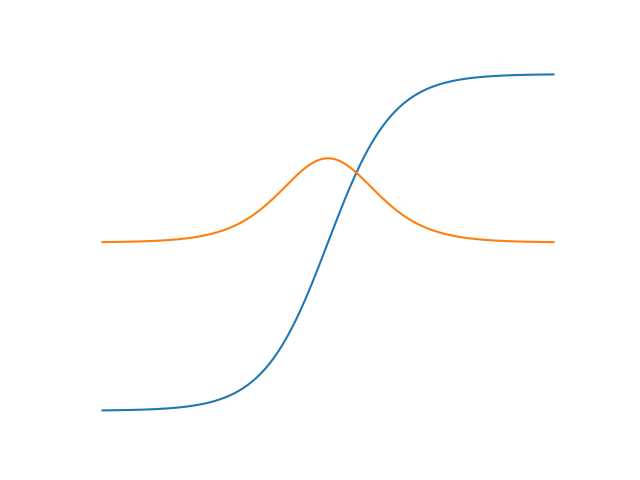
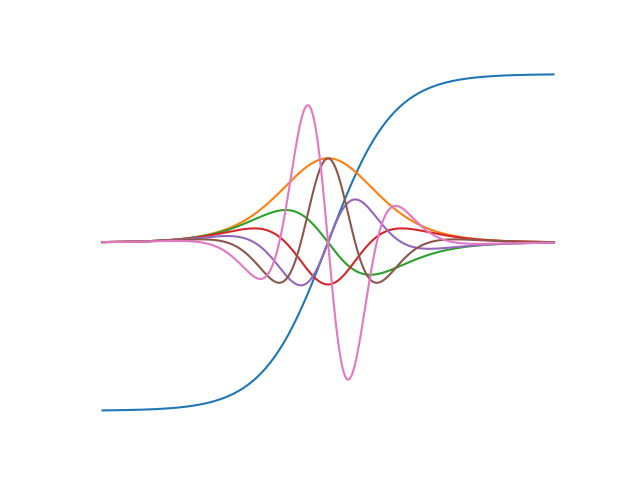
support high order derivative

Changed region(s): [[0.1562, 0.2188, 0.875, 0.7188], [0.5312, 0.7188, 0.5625, 0.8125]]

diff --git a/examples/tanh.py b/examples/tanh.py
@@ -8,15 +8,23 @@ def tanh(x):
     return (1.0 - y) / (1.0 + y)
 
 
-x = tf.Tensor(tf.linspace(-7, 7, 200))
+x = tf.linspace(-7, 7, 200)
 with tf.GradientTape() as tp:
     tanh_val = tanh(x)
     grad_tanh = tp.gradient(tanh_val, x)
-
-# TODO: support high order derivative
+    grad2_tanh = tp.gradient(grad_tanh, x)
+    grad3_tanh = tp.gradient(grad2_tanh, x)
+    grad4_tanh = tp.gradient(grad3_tanh, x)
+    grad5_tanh = tp.gradient(grad4_tanh, x)
+    grad6_tanh = tp.gradient(grad5_tanh, x)
 
 plt.plot(x.numpy(), tanh_val.numpy(),
-         x.numpy(), grad_tanh.numpy(),  # first derivative
+         x.numpy(), grad_tanh.numpy(),      # first derivative
+         x.numpy(), grad2_tanh.numpy(),     # second derivative
+         x.numpy(), grad3_tanh.numpy(),     # third derivative
+         x.numpy(), grad4_tanh.numpy(),     # fourth derivative
+         x.numpy(), grad5_tanh.numpy(),     # fifth derivative
+         x.numpy(), grad6_tanh.numpy(),     # sixth derivative
          )
 
 plt.axis('off')

diff --git a/minitf/autodiff/core.py b/minitf/autodiff/core.py
@@ -21,13 +21,15 @@ def primitive(f_raw):
         arg_vals = tuple(map(get_val, args))
         ans = Tensor(f_raw(*arg_vals, **kwargs))
 
+        # TODO: wrape value as tensor here.
+
         current_graph = get_current_graph()
         if current_graph:
             # make jvp functions
             jvp_maker = get_jvp_maker(f_wrapped)
             if jvp_maker is None:
                 raise Exception("Need to define jvp for the primitive")
-            all_jvps = jvp_maker(ans, *arg_vals, **kwargs)
+            all_jvps = jvp_maker(ans, *args, **kwargs)
 
             tensors = []
             jvps = []

diff --git a/minitf/autodiff/tensor.py b/minitf/autodiff/tensor.py
@@ -3,9 +3,7 @@ from .. import kernel as K
 
 class Tensor(object):
     def __init__(self, value):
-        self._value = value
-
-    data = property(lambda self: self._value)
+        self._value = get_val(value)
 
     def __neg__(self): return K.negative(self)
 
@@ -25,8 +23,10 @@ class Tensor(object):
 
     def __rtruediv__(self, other): return K.divide(other, self)
 
-    def numpy(self):
-        return K.asnumpy(self._value)
+    def numpy(self): return K.asnumpy(self._value)
+
+    @property
+    def data(self): return self._value
 
 
 def is_tensor(x):

diff --git a/minitf/autodiff/gradient_tape.py b/minitf/autodiff/gradient_tape.py
@@ -20,7 +20,7 @@ class GradientTape(object):
         return prev_g + curr_g
 
     def gradient(self, target, sources):
-        outgrads = {target: K.ones_like(target.data)}
+        outgrads = {target: K.ones_like(target)}
 
         for node, neighbors, jvps in toposort(self._graph, target):
             parent_grad = outgrads[node]

diff --git a/minitf/jvps/primitive_jvps.py b/minitf/jvps/primitive_jvps.py
@@ -28,7 +28,7 @@ def_jvp(K.multiply, lambda ans, x, y: (
 
 def_jvp(K.divide, lambda ans, x, y: (
     lambda g: unbroadcast(x, g / y),
-    lambda g: unbroadcast(y, -g * x / y ** 2),
+    lambda g: unbroadcast(y, -g * x / (y * y)),
 ))
 
 def_jvp(K.dot, lambda ans, x, y: (

diff --git a/examples/simple_linear_regression.py b/examples/simple_linear_regression.py
@@ -2,6 +2,7 @@ import minitf as tf
 
 tf.random.set_seed(42)
 
+
 # generate some linear-looking data
 def synthetic_linear_data(w, b, num_examples):
     X = tf.random.normal(size=num_examples)
